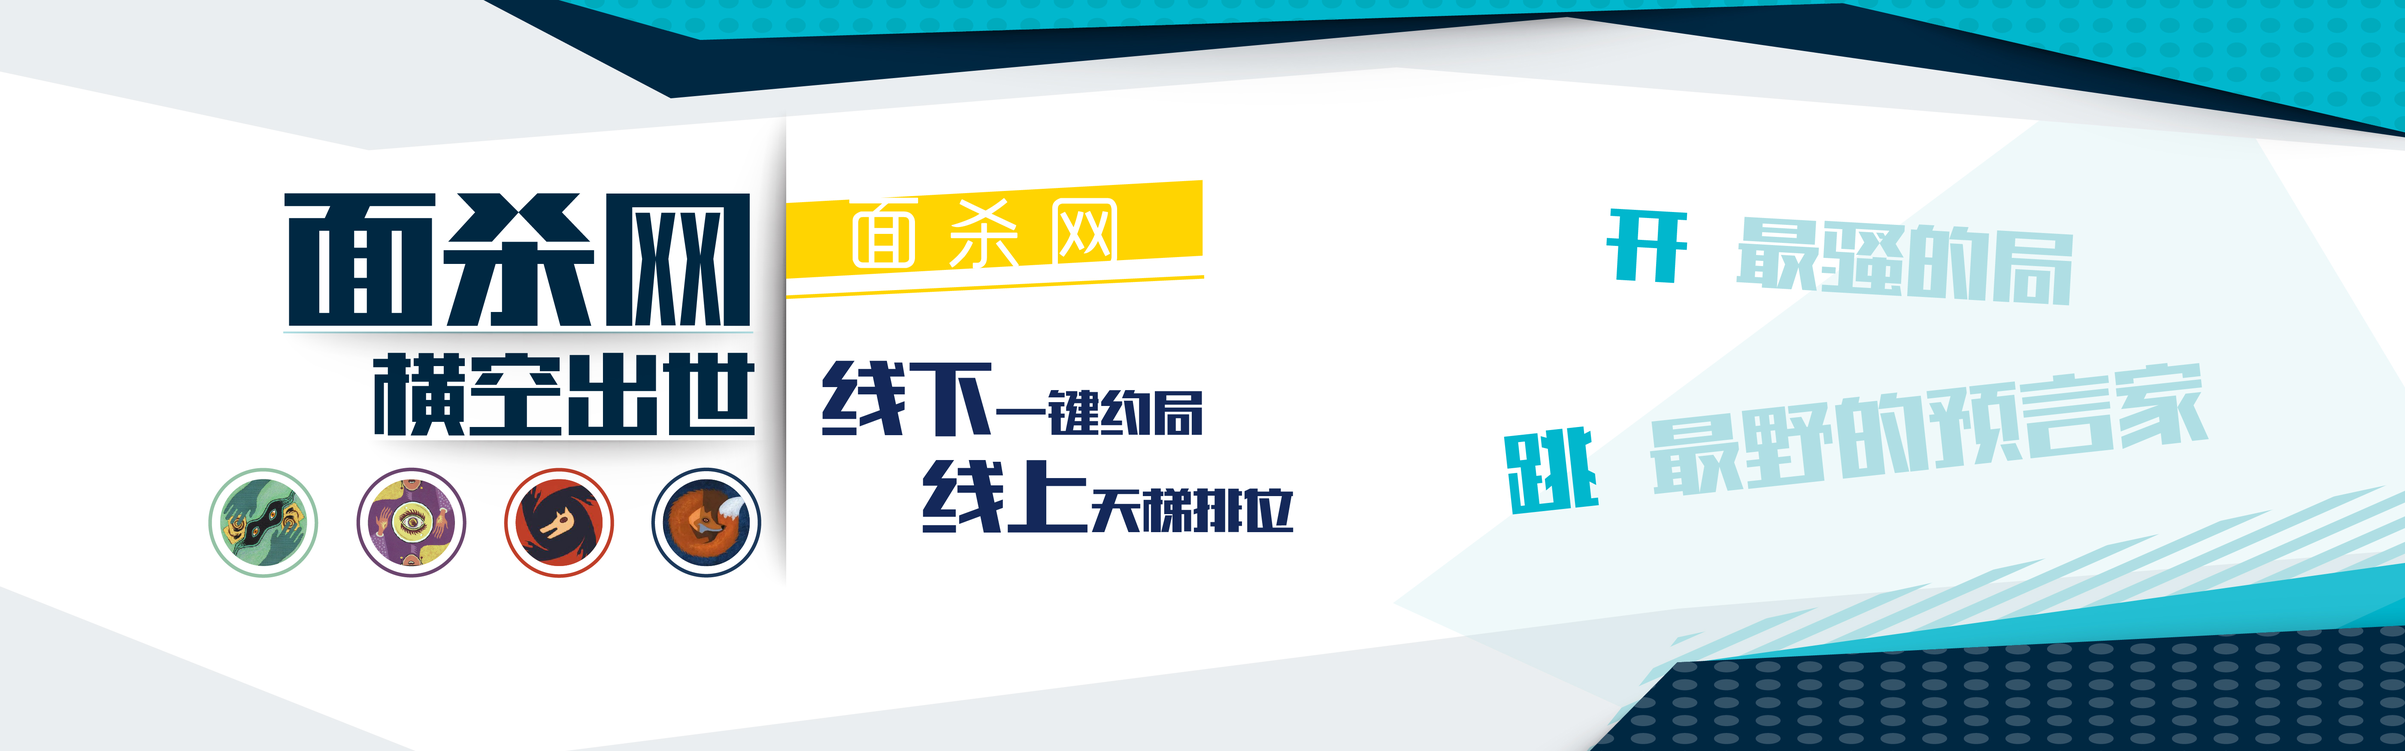
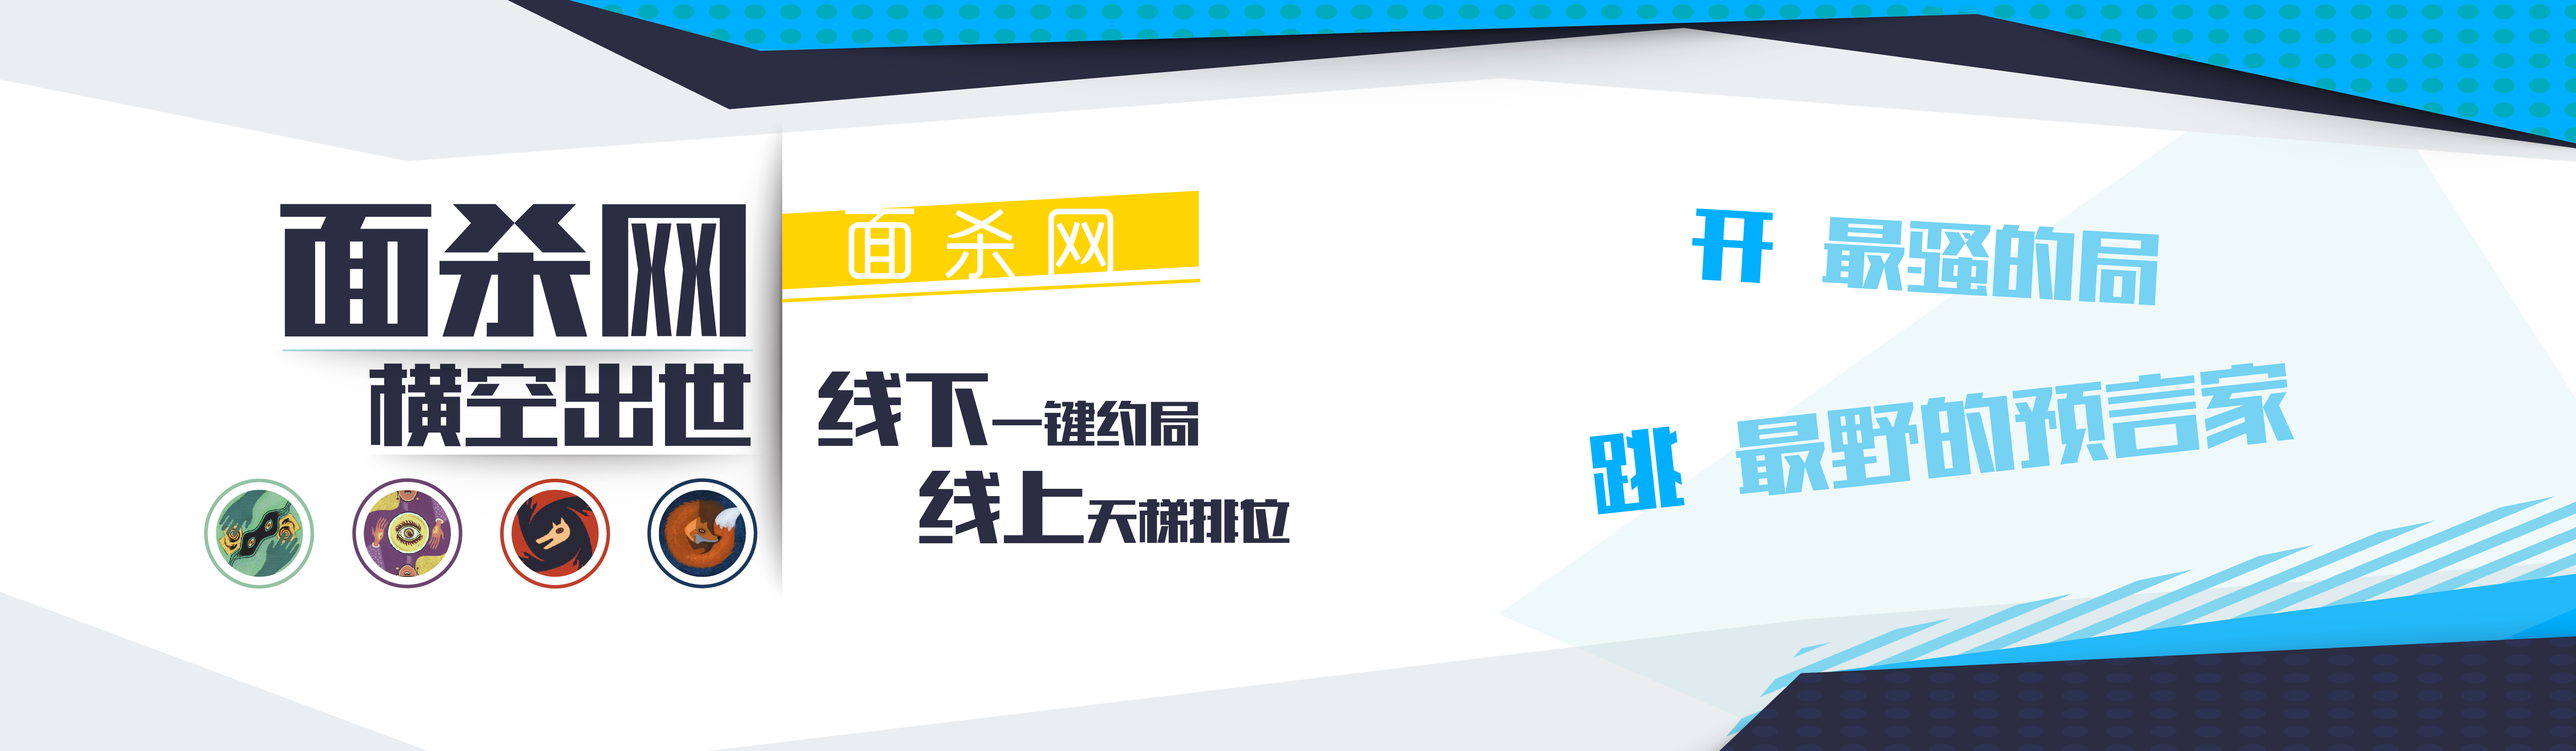
changed background and fixed footer

diff --git a/public/stylesheets/style.css b/public/stylesheets/style.css
@@ -384,6 +384,7 @@ img.profilePic {
 #body .color-carousel .carousel-item {
 	background-image: url(../images/newbg.jpg);
 	background-size: cover;
+  background-position: 0 -80px
 }
 #body .color-carousel {
   margin-top: 56px;
@@ -407,6 +408,11 @@ img.profilePic {
   color: #2B2D42;
 }
 @media only screen and (max-width: 600px) {
+    #body .color-carousel .carousel-item {
+      background-image: url(../images/mobilebg.jpg);
+      background-size: cover;
+      background-position: 0 -50px
+    }
     .main-content.row {
       margin: 0;
     }
@@ -415,6 +421,13 @@ img.profilePic {
     }
     #body h1.parallax-header {
       font-size: 3rem;
+    }
+}
+@media only screen and (max-width: 400px) {
+  #body .color-carousel .carousel-item {
+      background-image: url(../images/mobilebg.jpg);
+      background-size: cover;
+      background-position: -50px -50px
     }
 }
 @media only screen and (max-width: 990px) {
